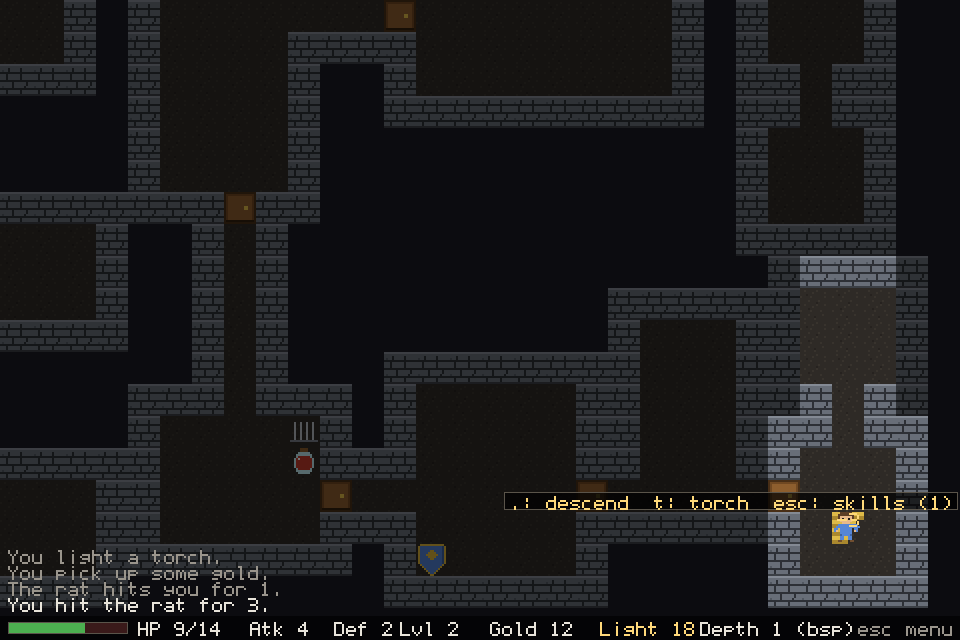
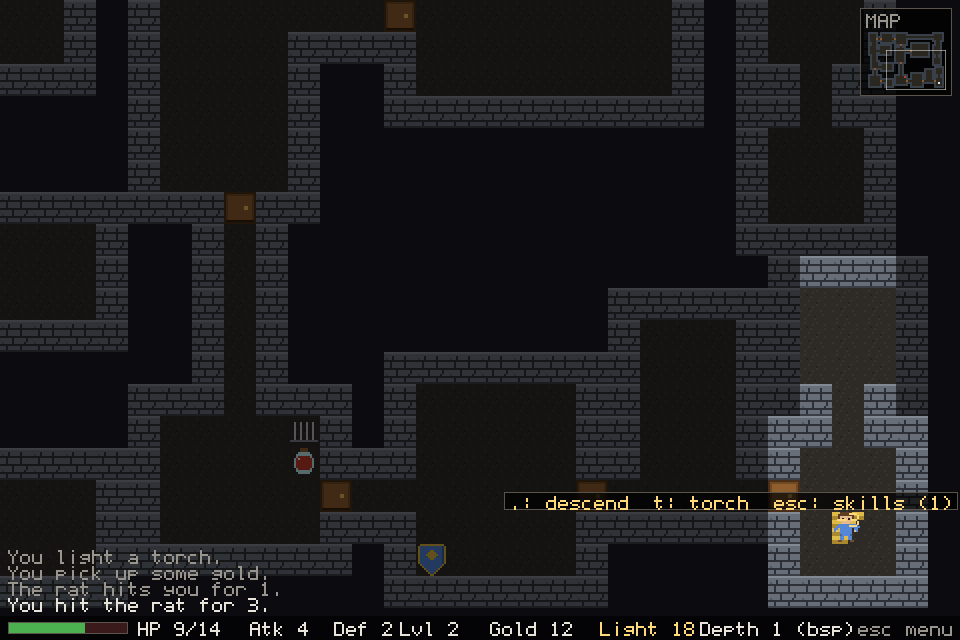
Add minimap overview

Changed region(s): [[0.875, 0.0, 1.0, 0.1562]]

diff --git a/src/ui/minimap.ts b/src/ui/minimap.ts
@@ -1,0 +1,129 @@
+import { LOGICAL_W, VIEW_COLS, VIEW_ROWS } from "../core/constants.ts";
+import { MAP_H, MAP_W } from "../core/map.ts";
+import { T } from "../core/tiles.ts";
+import { drawPixelText } from "./pixel-font.ts";
+import type { Game } from "../core/game.ts";
+
+export interface MinimapRect {
+  x: number;
+  y: number;
+  w: number;
+  h: number;
+}
+
+export const MINIMAP_SCALE = 2;
+export const MINIMAP_W = MAP_W * MINIMAP_SCALE;
+export const MINIMAP_H = MAP_H * MINIMAP_SCALE;
+export const MINIMAP_PANEL_W = MINIMAP_W + 12;
+export const MINIMAP_PANEL_H = MINIMAP_H + 28;
+
+export function minimapRect(): MinimapRect {
+  return {
+    x: LOGICAL_W - MINIMAP_PANEL_W - 8,
+    y: 8,
+    w: MINIMAP_PANEL_W,
+    h: MINIMAP_PANEL_H,
+  };
+}
+
+export function minimapCellColor(game: Game, x: number, y: number): string | null {
+  const explored = game.exploredByFloor.get(game.depth);
+  if (!explored?.has(y * MAP_W + x)) return null;
+
+  switch (game.map.cells[y]?.[x]) {
+    case "wall":
+      return "#39404a";
+    case "stairs":
+      return "#ffd97a";
+    case "stairsUp":
+      return "#7ab8ff";
+    case "doorClosed":
+      return "#8a5a2a";
+    case "doorOpen":
+      return "#5a3a1a";
+    case "trap":
+      return "#c0392b";
+    case "floor":
+      return "#2a2620";
+    default:
+      return null;
+  }
+}
+
+export function minimapItemColor(tile: number): string | null {
+  switch (tile) {
+    case T.Potion:
+      return "#9be56f";
+    case T.Gold:
+      return "#ffd97a";
+    case T.Sword:
+      return "#d8d8d8";
+    case T.Shield:
+      return "#7ab8ff";
+    case T.Torch:
+      return "#ff9a4a";
+    case T.Corpse:
+      return "#6a6a6a";
+    default:
+      return null;
+  }
+}
+
+export function drawMinimap(bctx: CanvasRenderingContext2D, game: Game): MinimapRect {
+  const rect = minimapRect();
+  const mapX = rect.x + 6;
+  const mapY = rect.y + 22;
+
+  bctx.fillStyle = "rgba(0,0,0,0.72)";
+  bctx.fillRect(rect.x, rect.y, rect.w, rect.h);
+  bctx.strokeStyle = "#5a544a";
+  bctx.strokeRect(rect.x + 0.5, rect.y + 0.5, rect.w, rect.h);
+  drawPixelText(bctx, "MAP", rect.x + 6, rect.y + 6, "#9a958c", 2);
+
+  for (let y = 0; y < MAP_H; y++) {
+    for (let x = 0; x < MAP_W; x++) {
+      const color = minimapCellColor(game, x, y);
+      if (!color) continue;
+      bctx.fillStyle = color;
+      bctx.fillRect(mapX + x * MINIMAP_SCALE, mapY + y * MINIMAP_SCALE, MINIMAP_SCALE, MINIMAP_SCALE);
+    }
+  }
+
+  const cam = game.camera();
+  bctx.strokeStyle = "rgba(232,228,218,0.55)";
+  bctx.strokeRect(
+    mapX + cam.x * MINIMAP_SCALE + 0.5,
+    mapY + cam.y * MINIMAP_SCALE + 0.5,
+    VIEW_COLS * MINIMAP_SCALE,
+    VIEW_ROWS * MINIMAP_SCALE,
+  );
+
+  for (const item of game.map.items) {
+    if (!game.visible.has(item.y * MAP_W + item.x)) continue;
+    const color = minimapItemColor(item.tile);
+    if (!color) continue;
+    bctx.fillStyle = color;
+    bctx.fillRect(mapX + item.x * MINIMAP_SCALE, mapY + item.y * MINIMAP_SCALE, MINIMAP_SCALE, MINIMAP_SCALE);
+  }
+
+  for (const monster of game.monsters()) {
+    if (!monster.alive || !game.visible.has(monster.y * MAP_W + monster.x)) continue;
+    bctx.fillStyle = "#ff6a6a";
+    bctx.fillRect(
+      mapX + monster.x * MINIMAP_SCALE,
+      mapY + monster.y * MINIMAP_SCALE,
+      MINIMAP_SCALE,
+      MINIMAP_SCALE,
+    );
+  }
+
+  bctx.fillStyle = "#e8e4da";
+  bctx.fillRect(
+    mapX + game.player.x * MINIMAP_SCALE,
+    mapY + game.player.y * MINIMAP_SCALE,
+    MINIMAP_SCALE,
+    MINIMAP_SCALE,
+  );
+
+  return rect;
+}

diff --git a/tests/ui/minimap.test.ts b/tests/ui/minimap.test.ts
@@ -1,0 +1,50 @@
+import { describe, expect, it } from "bun:test";
+import { Game } from "../../src/core/game.ts";
+import { MAP_W } from "../../src/core/map.ts";
+import { T } from "../../src/core/tiles.ts";
+import { LOGICAL_W } from "../../src/core/constants.ts";
+import {
+  MINIMAP_PANEL_H,
+  MINIMAP_PANEL_W,
+  minimapCellColor,
+  minimapItemColor,
+  minimapRect,
+} from "../../src/ui/minimap.ts";
+
+describe("minimap", () => {
+  it("places the panel in the top-right corner", () => {
+    const rect = minimapRect();
+    expect(rect.w).toBe(MINIMAP_PANEL_W);
+    expect(rect.h).toBe(MINIMAP_PANEL_H);
+    expect(rect.x + rect.w).toBe(LOGICAL_W - 8);
+    expect(rect.y).toBe(8);
+  });
+
+  it("hides unexplored cells", () => {
+    const game = new Game();
+    game.exploredByFloor.get(game.depth)!.clear();
+    expect(minimapCellColor(game, game.player.x, game.player.y)).toBeNull();
+  });
+
+  it("colors explored cells", () => {
+    const game = new Game();
+    const explored = game.exploredByFloor.get(game.depth)!;
+    explored.clear();
+    explored.add(game.player.y * MAP_W + game.player.x);
+    expect(minimapCellColor(game, game.player.x, game.player.y)).toBe("#2a2620");
+
+    game.map.cells[0]![0] = "wall";
+    explored.add(0);
+    expect(minimapCellColor(game, 0, 0)).toBe("#39404a");
+  });
+
+  it("colors known item tiles", () => {
+    expect(minimapItemColor(T.Potion)).toBe("#9be56f");
+    expect(minimapItemColor(T.Gold)).toBe("#ffd97a");
+    expect(minimapItemColor(T.Sword)).toBe("#d8d8d8");
+    expect(minimapItemColor(T.Shield)).toBe("#7ab8ff");
+    expect(minimapItemColor(T.Torch)).toBe("#ff9a4a");
+    expect(minimapItemColor(T.Corpse)).toBe("#6a6a6a");
+    expect(minimapItemColor(T.Floor)).toBeNull();
+  });
+});

diff --git a/src/platform/main.ts b/src/platform/main.ts
@@ -7,6 +7,7 @@ import { handleKeydown } from "./input.ts";
 import { contextualHints, drawContextHints, drawHUD } from "../ui/hud.ts";
 import { drawGameOver, drawMenu, drawTitle } from "../ui/screens.ts";
 import { drawEffects } from "../ui/effects.ts";
+import { drawMinimap } from "../ui/minimap.ts";
 import { LOGICAL_H, LOGICAL_W } from "../core/constants.ts";
 import { MenuNav } from "../ui/menu.ts";
 import { computeScaling } from "../ui/scaling.ts";
@@ -156,6 +157,7 @@ async function main(): Promise<void> {
     } else {
       const cam = game.camera();
       drawScene(bctx, tiles, game.buildScene());
+      drawMinimap(bctx, game);
       drawHUD(bctx, {
         player: game.player,
         inventory: game.inventory,

diff --git a/tools/make-screenshots.ts b/tools/make-screenshots.ts
@@ -5,6 +5,7 @@ import { Tileset, drawScene } from "../src/platform/render.ts";
 import { drawMenu, drawTitle } from "../src/ui/screens.ts";
 import { contextualHints, drawContextHints, drawHUD } from "../src/ui/hud.ts";
 import { drawEffects } from "../src/ui/effects.ts";
+import { drawMinimap } from "../src/ui/minimap.ts";
 import { Game } from "../src/core/game.ts";
 import { MenuNav } from "../src/ui/menu.ts";
 import { buildMenuTree } from "../src/platform/menuTree.ts";
@@ -103,6 +104,7 @@ function renderGameplay(showMenu: boolean): Buffer {
   const cam = game.camera();
 
   drawScene(ctx, tiles, game.buildScene());
+  drawMinimap(ctx, game);
   drawHUD(ctx, {
     player: game.player,
     inventory: game.inventory,
